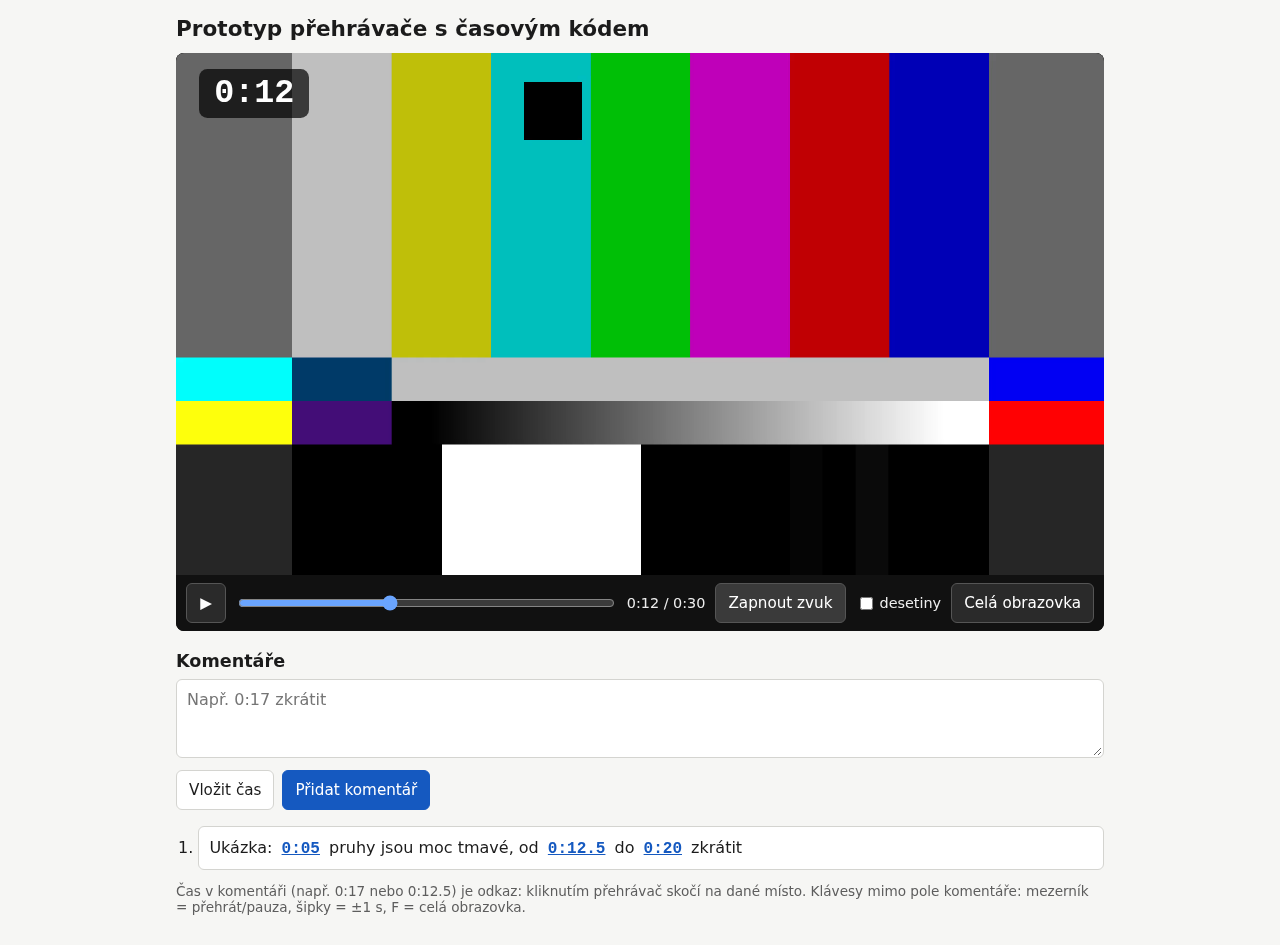
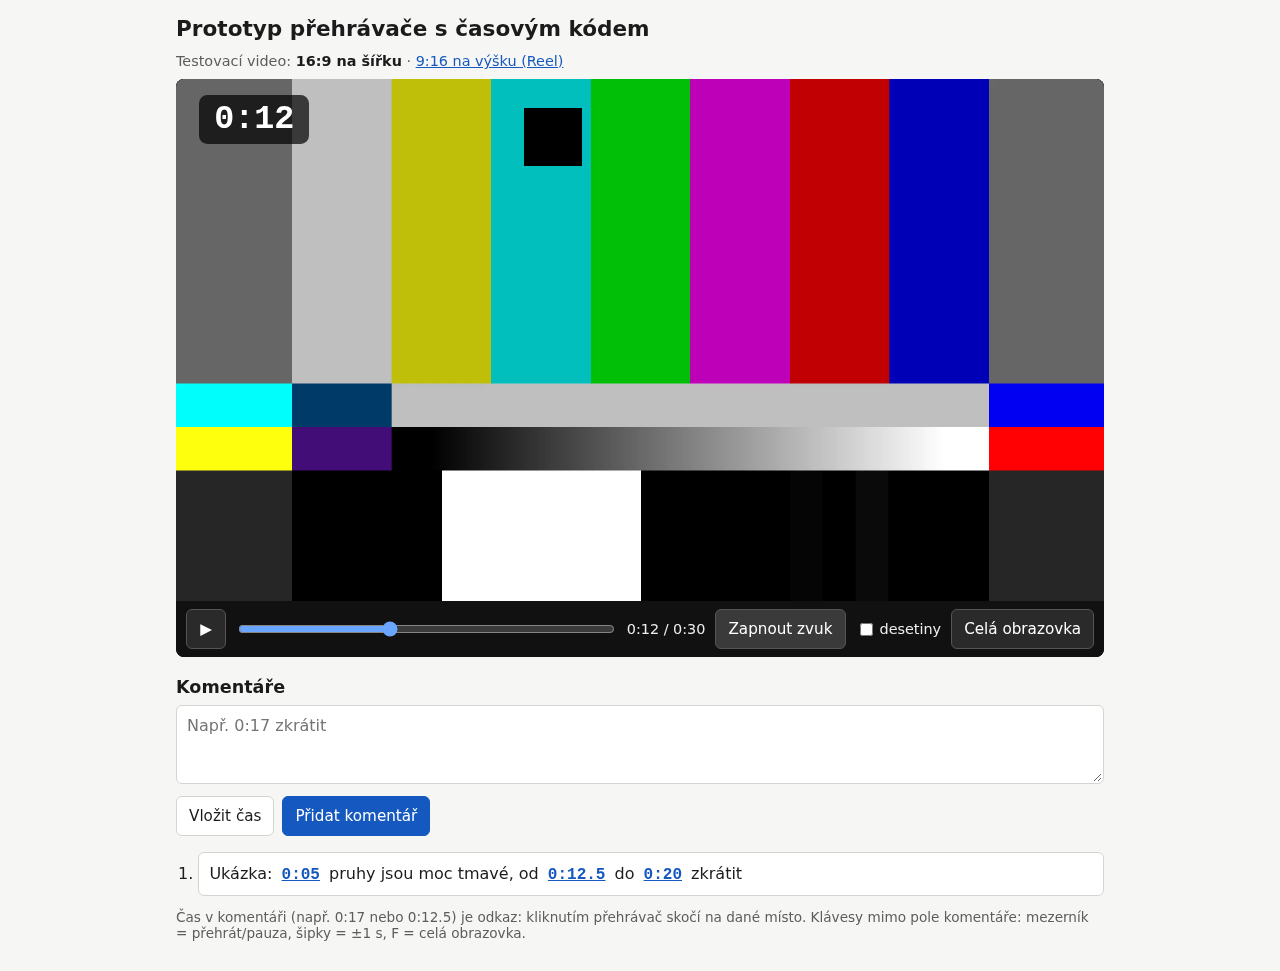
F1-B04: překryv vždy na ploše obrazu, svislé video pro Reels, testy poměru stran
Agent: A (Claude Opus 5.5 high)

diff --git a/proto/F1-B04/tests/player.spec.js b/proto/F1-B04/tests/player.spec.js
@@ -25,16 +25,17 @@ async function sample(page, mode = 'next') {
   return page.evaluate(async (mode) => {
     const video = document.getElementById('video');
     const overlay = document.getElementById('timecode');
+    const W = video.videoWidth;
     const canvas = document.createElement('canvas');
-    canvas.width = 1920;
+    canvas.width = W;
     canvas.height = 1;
     const ctx = canvas.getContext('2d', { willReadFrequently: true });
     const read = () => {
-      // one pixel row through the middle of the square (y = 60..180 in the 1080p frame)
-      ctx.drawImage(video, 0, 120, 1920, 1, 0, 0, 1920, 1);
-      const px = ctx.getImageData(0, 0, 1920, 1).data;
+      // one pixel row through the middle of the square (y = 60..180 in the full-size frame)
+      ctx.drawImage(video, 0, 120, W, 1, 0, 0, W, 1);
+      const px = ctx.getImageData(0, 0, W, 1).data;
       let x = -1;
-      for (let i = 0; i < 1920; i++) {
+      for (let i = 0; i < W; i++) {
         const [r, g, b] = [px[i * 4], px[i * 4 + 1], px[i * 4 + 2]];
         if (r < 40 && g < 40 && b < 40) {
           x = i;
@@ -42,7 +43,8 @@ async function sample(page, mode = 'next') {
         }
       }
       return {
-        frameTime: x < 0 ? null : Math.round(x / 2) / 30,
+        // x = (W - 120) * t / 30  =>  t = 30 * x / (W - 120), rounded to a whole frame
+        frameTime: x < 0 ? null : Math.round((30 * 30 * x) / (W - 120)) / 30,
         overlayText: overlay.textContent,
         overlaySeconds: Number(overlay.dataset.seconds),
         currentTime: video.currentTime,
@@ -62,10 +64,28 @@ function expectInSync(s, withTenths = false) {
   expect(allowed).toContain(s.overlayText);
 }
 
-async function open(page) {
-  await page.goto('/');
+async function open(page, path = '/') {
+  await page.goto(path);
   await page.waitForFunction(() => document.getElementById('video').readyState >= 2);
   await page.getByTestId('mute').click();
+}
+
+/** Overlay lies on the picture itself (not on black bars) and the picture keeps its aspect ratio. */
+async function expectOverlayOnPicture(page) {
+  const r = await page.evaluate(() => {
+    const box = (id) => document.getElementById(id).getBoundingClientRect().toJSON();
+    const v = document.getElementById('video');
+    return { frame: box('frame'), overlay: box('timecode'), ar: v.videoWidth / v.videoHeight, vw: innerWidth, vh: innerHeight };
+  });
+  const { frame, overlay } = r;
+  expect(frame.width / frame.height).toBeCloseTo(r.ar, 1);
+  expect(overlay.left).toBeGreaterThanOrEqual(frame.left);
+  expect(overlay.top).toBeGreaterThanOrEqual(frame.top);
+  expect(overlay.right).toBeLessThanOrEqual(frame.right);
+  expect(overlay.bottom).toBeLessThanOrEqual(frame.bottom);
+  expect(frame.left).toBeGreaterThanOrEqual(-0.5);
+  expect(frame.right).toBeLessThanOrEqual(r.vw + 0.5);
+  return r;
 }
 
 async function seekProgrammatically(page, t) {
@@ -185,6 +205,7 @@ test('celá obrazovka: překryv zůstává vidět a synchronní', async ({ page 
   expect(ob.y).toBeGreaterThanOrEqual(0);
   expect(ob.x + ob.width).toBeLessThanOrEqual(vp.width);
   expect(ob.y + ob.height).toBeLessThanOrEqual(vp.height);
+  await expectOverlayOnPicture(page);
 
   // overlay is on top of the video (not hidden behind it)
   // (overlay has pointer-events: none, which elementFromPoint skips, so switch it on briefly)
@@ -300,6 +321,33 @@ test('rozložení: bez vodorovného posouvání, ovládání v šířce okna', a
   // overlay readable: at least 15 px font
   const fontPx = await page.getByTestId('timecode').evaluate((el) => parseFloat(getComputedStyle(el).fontSize));
   expect(fontPx).toBeGreaterThanOrEqual(15);
+  await expectOverlayOnPicture(page);
   await seekProgrammatically(page, 12);
   await shot(page, '06-rozlozeni', { fullPage: true });
+});
+
+test('video na výšku (Reel 9:16): překryv na obraze, synchronní, i na celé obrazovce', async ({ page }) => {
+  await open(page, '/?video=reel');
+  expect(await page.evaluate(() => document.getElementById('video').videoHeight)).toBe(1920);
+  const r = await expectOverlayOnPicture(page);
+  // a vertical video must leave room for the controls: picture + controls fit in the window together
+  expect(r.frame.height).toBeLessThanOrEqual(r.vh * 0.75 + 1);
+  const playerBox = await page.getByTestId('player').boundingBox();
+  expect(playerBox.height).toBeLessThanOrEqual(r.vh);
+
+  await page.getByTestId('play').click();
+  await page.waitForFunction(() => document.getElementById('video').currentTime > 1);
+  for (let i = 0; i < 4; i++) expectInSync(await sample(page));
+  await page.getByTestId('play').click();
+  await seekProgrammatically(page, 21);
+  await page.waitForTimeout(200);
+  expectInSync(await sample(page, 'now'));
+  await shot(page, '07-reel');
+
+  await page.getByTestId('fullscreen').click();
+  await expect.poll(() => page.evaluate(() => document.fullscreenElement?.id)).toBe('player');
+  await page.waitForTimeout(200);
+  await expectOverlayOnPicture(page);
+  await shot(page, '08-reel-cela-obrazovka');
+  await page.getByTestId('fullscreen').click();
 });

diff --git a/proto/F1-B04/public/style.css b/proto/F1-B04/public/style.css
@@ -25,16 +25,38 @@ body { margin: 0; background: var(--bg); color: var(--fg); }
 .page { max-width: 960px; margin: 0 auto; padding: 16px; }
 h1 { font-size: 1.35rem; margin: 0 0 12px; }
 h2 { font-size: 1.1rem; margin: 20px 0 8px; }
+.pick { margin: 0 0 10px; font-size: 0.9rem; color: var(--muted); }
+.pick a { color: var(--accent); }
+.pick a[aria-current] { font-weight: 600; color: var(--fg); text-decoration: none; }
 
 /* ---------- Player ---------- */
+/* --ar = video aspect ratio (width / height), set from the video metadata in player.js */
 .player {
+  --ar: 1.7778;
   background: #000;
   border-radius: 8px;
   overflow: hidden;
-  container-type: inline-size; /* overlay font scales with the player width (cqw) */
+  container-type: inline-size;
 }
-.stage { position: relative; aspect-ratio: 16 / 9; background: #000; cursor: pointer; }
-.stage video { position: absolute; inset: 0; width: 100%; height: 100%; object-fit: contain; display: block; }
+/* Stage: as wide as the player, but never taller than 75 % of the window (vertical videos). */
+.stage {
+  position: relative;
+  height: min(calc(100cqw / var(--ar)), 75vh);
+  background: #000;
+  cursor: pointer;
+  container-type: size;
+}
+/* Frame: the largest box with the video's aspect ratio that fits the stage = the picture itself. */
+.frame {
+  position: absolute;
+  left: 50%;
+  top: 50%;
+  width: min(100cqw, calc(100cqh * var(--ar)));
+  aspect-ratio: var(--ar);
+  transform: translate(-50%, -50%);
+  container-type: size; /* overlay font scales with the picture (cqmax = its longer side) */
+}
+.frame video { position: absolute; inset: 0; width: 100%; height: 100%; object-fit: contain; display: block; }
 
 .timecode {
   position: absolute;
@@ -44,7 +66,7 @@ h2 { font-size: 1.1rem; margin: 20px 0 8px; }
   border-radius: 0.25em;
   background: rgba(0, 0, 0, 0.7);
   color: #fff;
-  font: 600 clamp(15px, 3.6cqw, 56px) / 1.25 ui-monospace, 'SFMono-Regular', Menlo, Consolas, monospace;
+  font: 600 clamp(15px, 3.6cqmax, 56px) / 1.25 ui-monospace, 'SFMono-Regular', Menlo, Consolas, monospace;
   font-variant-numeric: tabular-nums; /* digits of equal width: the box does not jump */
   pointer-events: none;
   user-select: none;
@@ -88,11 +110,13 @@ h2 { font-size: 1.1rem; margin: 20px 0 8px; }
 }
 .player.pseudo-fs { position: fixed; inset: 0; z-index: 1000; height: 100dvh; }
 .player:fullscreen .stage,
-.player.pseudo-fs .stage { flex: 1 1 auto; aspect-ratio: auto; min-height: 0; }
+.player.pseudo-fs .stage { flex: 1 1 auto; height: auto; min-height: 0; }
 
 /* Phone: controls in two rows, seek bar on its own row */
 @media (max-width: 520px) {
   .page { padding: 12px; }
+  /* vertical video on a phone: leave room for the controls below the picture */
+  .stage { height: min(calc(100cqw / var(--ar)), 62svh); }
   .controls #seek { order: -1; flex-basis: 100%; }
 }
 

diff --git a/proto/F1-B04/public/player.js b/proto/F1-B04/public/player.js
@@ -21,6 +21,12 @@ const list = $('comment-list');
 let withTenths = tenthsBox.checked;
 let seekDragging = false;
 
+// Prototype only: choose the test video by URL (?video=reel). In MVP1 it comes from the database.
+const VIDEOS = { wide: '/media/test-1080p.mp4', reel: '/media/test-reel-1080x1920.mp4' };
+const choice = new URLSearchParams(location.search).get('video') === 'reel' ? 'reel' : 'wide';
+video.src = VIDEOS[choice];
+document.querySelector(`[data-testid="pick-${choice}"]`)?.setAttribute('aria-current', 'page');
+
 // ---------- Overlay ----------
 
 /** Shows time t (seconds) in the overlay, the clock and the seek bar. */
@@ -73,6 +79,9 @@ function seekTo(t) {
 
 video.addEventListener('loadedmetadata', () => {
   seek.max = String(video.duration);
+  // The frame (picture + overlay) takes the video's aspect ratio, so the overlay always sits
+  // on the picture itself, also for vertical Reels and in fullscreen (no black bars under it).
+  player.style.setProperty('--ar', String(video.videoWidth / video.videoHeight));
 });
 video.addEventListener('play', () => {
   playBtn.textContent = '❚❚';
@@ -120,6 +129,10 @@ async function toggleFullscreen() {
     else document.webkitExitFullscreen?.();
   } else if (player.requestFullscreen) {
     await player.requestFullscreen({ navigationUI: 'hide' });
+    // Android: turn a landscape video sideways on a phone held upright (not supported everywhere).
+    if (video.videoWidth > video.videoHeight && screen.orientation?.lock) {
+      screen.orientation.lock('landscape').catch(() => {});
+    }
   } else if (player.webkitRequestFullscreen) {
     player.webkitRequestFullscreen();
   } else {

diff --git a/proto/F1-B04/public/index.html b/proto/F1-B04/public/index.html
@@ -9,11 +9,16 @@
 <body>
   <main class="page">
     <h1>Prototyp přehrávače s časovým kódem</h1>
+    <nav class="pick" aria-label="Testovací video">
+      Testovací video: <a href="?" data-testid="pick-wide">16:9 na šířku</a> · <a href="?video=reel" data-testid="pick-reel">9:16 na výšku (Reel)</a>
+    </nav>
 
     <section class="player" id="player" data-testid="player" aria-label="Přehrávač videa">
       <div class="stage" id="stage">
-        <video id="video" src="/media/test-1080p.mp4" preload="metadata" playsinline disablepictureinpicture></video>
-        <div class="timecode" id="timecode" data-testid="timecode" aria-hidden="true">0:00</div>
+        <div class="frame" id="frame">
+          <video id="video" preload="metadata" playsinline disablepictureinpicture></video>
+          <div class="timecode" id="timecode" data-testid="timecode" aria-hidden="true">0:00</div>
+        </div>
       </div>
       <div class="controls">
         <button type="button" id="play" class="btn" data-testid="play" aria-label="Přehrát">▶</button>
